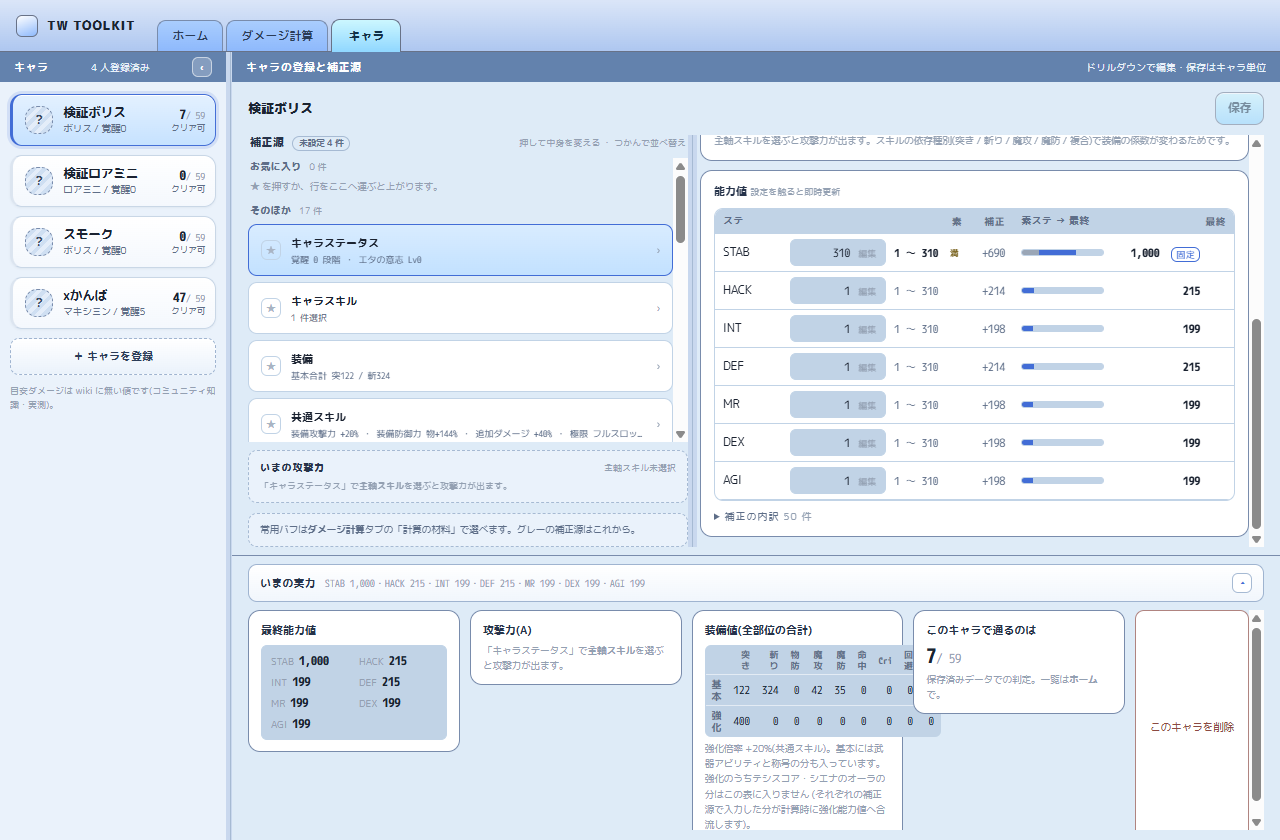
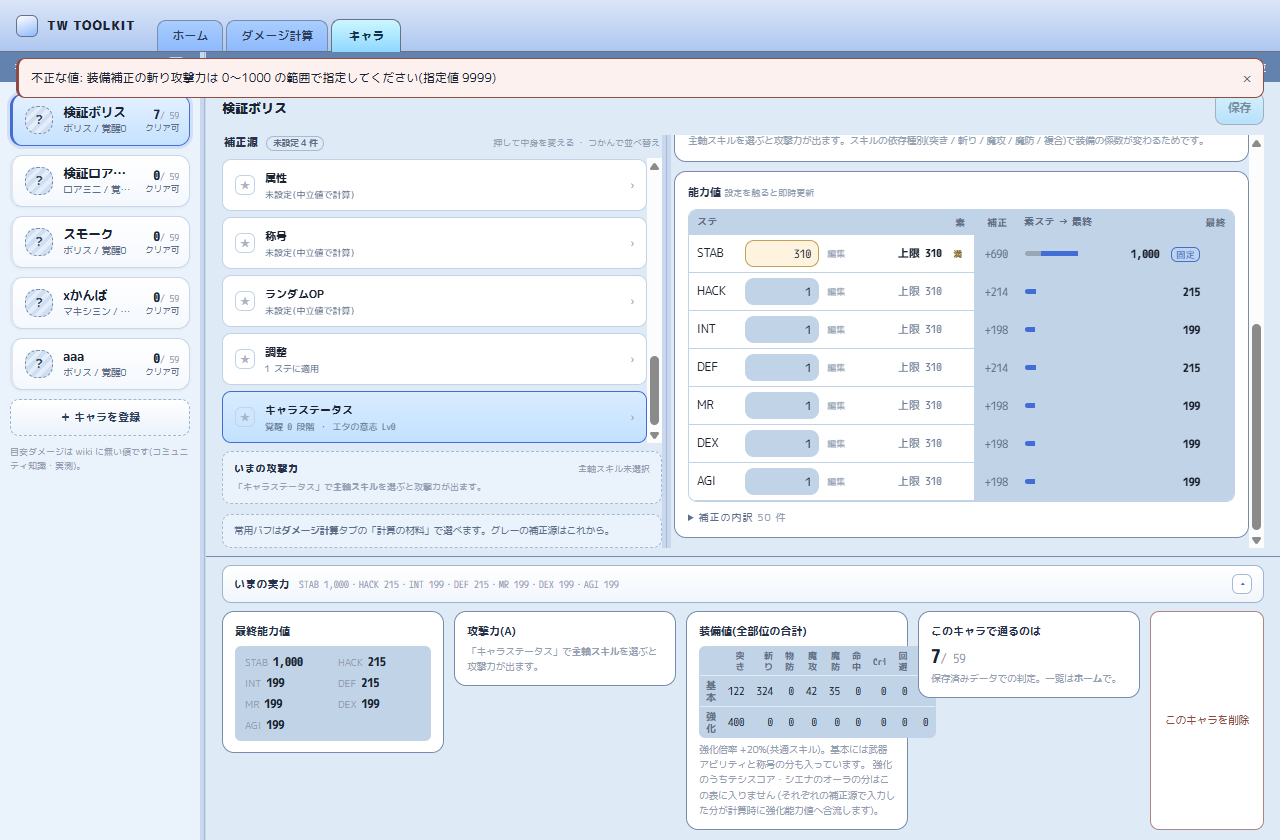
fix(ui): 読み取り専用の表をインセット面に載せる(§01)
§01 は「表・トレース・読み取り専用の数値」をインセット面に載せ、
編集できる面(白)と面で分けると決めている。実測すると能力値表のセル 235 個が
すべて白で、編集できる列とできない列が同じ面だった。

- 能力値表: 編集できるのは「素」列だけ。補正 / 素ステ→最終 / 最終はインセットに
- 補正の内訳・詳細トレースの表は全体をインセットに
- `table.grid.ro`(表ごと)と `td.ro`(列だけ)を app.css に置いた

あわせて §12 の「基本値はユーザーが触らない」に但し書きを足した。MR による個体差が
あるので上書きはできる — ただし自動値を上書きする例外操作として、押して初めて
入力欄になる(§08)。規格の言い切りが実装の必要と食い違っていた。

Claude-Session: https://claude.ai/code/session_01JvRWxU3ohwNNHW2hQatCCP

Changed region(s): [[0.0, 0.0619, 1.0, 1.0]]

diff --git a/apps/desktop/src/pages/chars/SourcePane.svelte b/apps/desktop/src/pages/chars/SourcePane.svelte
@@ -693,10 +693,10 @@
                 <td class="n stat-cell">
                   <StatInput label="" min={STAT_MIN} max={limits.base_stat_max} bind:value={draft.baseStats[k]} />
                 </td>
-                <td class="n muted">{diff === null ? "—" : signed(diff)}</td>
+                <td class="n muted ro">{diff === null ? "—" : signed(diff)}</td>
                 <!-- 素ステ → 最終を 1 本のバーで(§11)。数字の羅列ではなく「どれだけ伸びたか」を見せる。
                      灰が素ステ(振り分け)、青が補正で乗った分。長さは最終能力値の上限に対する割合 -->
-                <td>
+                <td class="ro">
                   <span
                     class="grow"
                     title={cap > 0 ? `上限 ${fmtInt(cap)}(覚醒段階 + エタの意志 Lv)` : "上限は計算中"}
@@ -705,7 +705,7 @@
                     <i class="add" style="width: {addPct.toFixed(1)}%"></i>
                   </span>
                 </td>
-                <td class="n final">
+                <td class="n final ro">
                   <span class="strong">{preview ? fmtInt(preview.stats[k]) : "—"}</span>
                   {#if trace?.pinned_from !== null && trace?.pinned_from !== undefined}
                     <span class="pin-badge" title={`固定前: ${fmtInt(trace.pinned_from)}`}>固定</span>
@@ -730,7 +730,7 @@
           <p class="empty dim">補正源なし(素ステのみ)</p>
         {:else}
           <div class="tbl">
-            <table class="grid">
+            <table class="grid ro">
               <thead><tr><th>ステ</th><th>出典</th><th>層</th><th class="n">値</th></tr></thead>
               <tbody>
                 {#each STAT_KINDS.flatMap((k) => preview!.contributions.filter((c) => c.kind === k)) as c, i (i)}

diff --git a/apps/desktop/src/pages/calc/TracePanel.svelte b/apps/desktop/src/pages/calc/TracePanel.svelte
@@ -55,7 +55,7 @@
 
   <div class="section-label"><span>(a) 能力値計算</span><span class="rule"></span></div>
   <div class="tbl">
-    <table class="grid">
+    <table class="grid ro">
       <thead><tr>
         <th>ステ</th><th class="n">最終</th><th class="n">素</th><th class="n">Σ割合</th><th class="n">固定</th><th class="n">Π倍率A</th>
         <th class="n">基本</th><th class="n">倍率B</th><th class="n">[基本×B]</th><th class="n">最終固定</th>
@@ -98,7 +98,7 @@
     {#if contributions.length === 0}
       <p class="empty dim">補正源なし(素ステのみ)</p>
     {:else}
-      <table class="grid">
+      <table class="grid ro">
         <thead><tr><th>ステ</th><th>出典</th><th>層</th><th class="n">値</th></tr></thead>
         <tbody>
           {#each contributions as c, i (i)}
@@ -116,7 +116,7 @@
 
   <div class="section-label"><span>(b) カテゴリ集計</span><span class="rule"></span><span class="dim">ハイライト = 非中立値</span></div>
   <div class="tbl">
-    <table class="grid">
+    <table class="grid ro">
       <thead><tr>
         <th>記号</th><th>カテゴリ</th><th>種別</th><th class="n">集計値</th><th class="n">係数</th><th class="n">キャップ</th>
       </tr></thead>
@@ -144,7 +144,7 @@
     </span>
   </div>
   <div class="tbl">
-    <table class="grid">
+    <table class="grid ro">
       <thead><tr><th>#</th><th>段</th><th>式</th><th class="n">値</th></tr></thead>
       <tbody>
         {#each steps as s, i (i)}

diff --git a/docs/design-system.html b/docs/design-system.html
@@ -2274,7 +2274,7 @@ td code { background: var(--card-soft2); }
         <div class="grid2">
           <div class="card soft">
             <div class="card-h"><span class="formtag">1 自動</span></div>
-            <p style="font-size:11px"><b>基本値(突き 122 / 斬り 315)。</b>装備品を選んだ瞬間に確定する値で、ユーザーは触らない。インセット面に載せて「触れない」ことを面で示す。</p>
+            <p style="font-size:11px"><b>基本値(突き 122 / 斬り 315)。装備品を選んだ瞬間に確定する値なので、既定は読み取り表示。インセット面に載せて「いまは触っていない」ことを面で示す。<b>ただし MR による個体差があるので上書きはできる</b> — 自動値を上書きする例外操作として、押して初めて入力欄になる(§08 フィールド)。</p>
           </div>
           <div class="card soft">
             <div class="card-h"><span class="formtag f2">2 段階選択</span></div>

diff --git a/apps/desktop/src/app.css b/apps/desktop/src/app.css
@@ -179,6 +179,9 @@ table.grid th {
   position: sticky; top: 0;
 }
 table.grid td.n, table.grid th.n { text-align: right; font-family: var(--font-num); font-variant-numeric: tabular-nums; }
+/* 読み取り専用の表はインセット面に載せる(§01)。編集できる面(白)と、
+   触れるかどうかが面で分かれる。編集列が混ざる表は列に .ro を付ける */
+table.grid.ro td, table.grid td.ro { background: var(--surface-inset); }
 
 /* 進捗バー(目安に対する火力など) */
 .meter {
